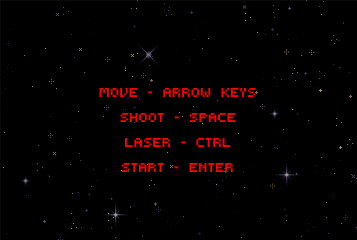
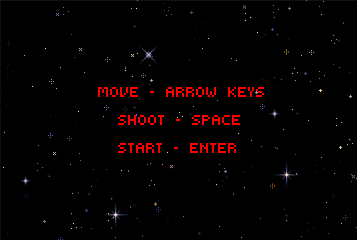
updated the startScreenImage for game2 to be correct

diff --git a/src/App/services/UI/Scenes/DisplayControls.ts b/src/App/services/UI/Scenes/DisplayControls.ts
@@ -2,7 +2,6 @@ import type { IScene } from "./types/IScene";
 import type { UI } from "../UI";
 
 import { createBgImage } from "./components/atoms/bgImage";
-import { ShowControls } from "./components/molecules/ShowControls";
 import { Countdown } from "./components/molecules/Countdown";
 import { fontSizes } from "./consts/fontSizes";
 
@@ -16,7 +15,6 @@ export class DisplayControls implements IScene {
    // elements
    private bgImageElement?: HTMLDivElement;
    private countdown?: Countdown;
-   private showControls?: ShowControls;
 
    public constructor(params: TConstructor) {
       this.ui = params.ui;
@@ -39,9 +37,6 @@ export class DisplayControls implements IScene {
          top: 5,
          left: 315,
       });
-
-      this.showControls = new ShowControls({ top: 80 });
-      this.showControls.render();
    }
 
    public destroy() {
@@ -50,8 +45,6 @@ export class DisplayControls implements IScene {
 
       this.countdown?.destroy();
       this.countdown = undefined;
-
-      this.showControls?.destroy();
    }
 
    private handleCountdDownDone = () => {
